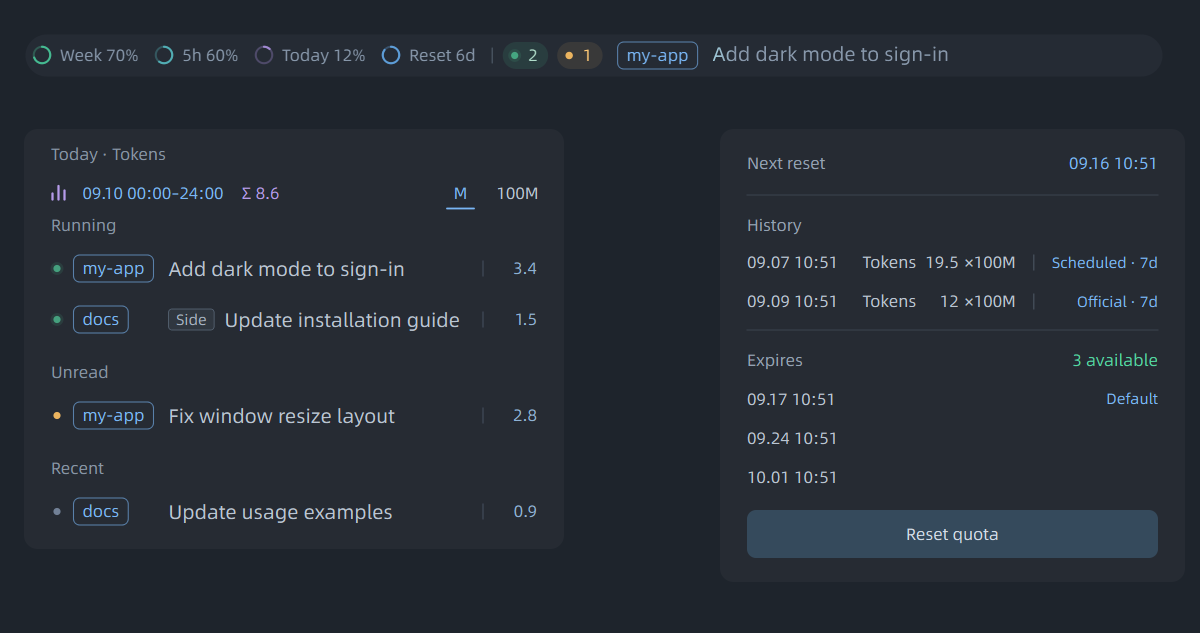
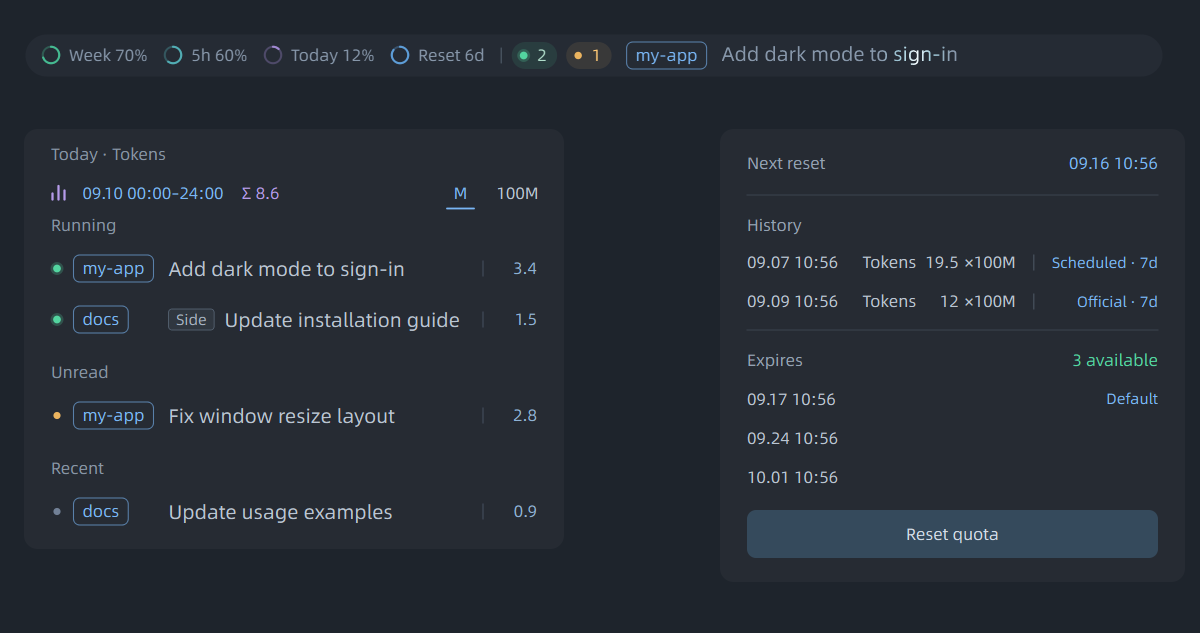
chore(release): 整理胶囊及窗口修复并发布 v0.3.3
增加胶囊左侧内边距，汇总手动深浅配色、背景透明度、窗口状态恢复、菜单与历史显示修正。验证：151项回归、正式覆盖安装与再次启动、设置及自启保留、安装资源哈希。

Changed region(s): [[0.0308, 0.06, 0.8017, 0.1201], [0.9558, 0.2401, 0.9867, 0.2701]]

diff --git a/codex_taskbar/app.py b/codex_taskbar/app.py
@@ -32,6 +32,7 @@ from .i18n import LANGUAGES, translate, project_label
 PANEL, MUTED, ACCENT, BLUE = "#262b33", "#bac5d2", "#53d5a0", "#79b6f5"
 TITLE_MUTED = "#8797aa"
 ROTATE_SECONDS = 8
+CONTENT_X = 18.
 FONT_FAMILY = None
 LILAC = "#b59bea"
 AMBER = "#ebb45f"
@@ -603,7 +604,7 @@ class StatusBar(QWidget):
         if not any(self.settings[key] for key in DISPLAY_DEFAULTS):
             self.hide();self.hide_popup(immediate=True);return
         metrics=self.displayed_metrics()
-        minimum=12+sum((25 if self.settings.get('rotate_quotas') else 29)+self.metric_text_width(kind,value) for kind,value,fraction in metrics)
+        minimum=CONTENT_X+sum((25 if self.settings.get('rotate_quotas') else 29)+self.metric_text_width(kind,value) for kind,value,fraction in metrics)
         if self.settings['show_tasks']:
             counts=category_counts(self.data)
             minimum+=(60 if self.data.get('tasks') else 0)+sum(30+QFontMetricsF(face(8)).horizontalAdvance(str(counts[k])) for k in ('running','unread','failed','stopped') if counts[k])
@@ -660,7 +661,7 @@ class StatusBar(QWidget):
                 p.drawRoundedRect(box,box.height()/2,box.height()/2)
             for mode,rect,target in self.hit_regions:p.fillRect(rect.toAlignedRect(),QColor(0,0,0,1))
             p.end()
-        x,y=12.,self.height()/2
+        x,y=CONTENT_X,self.height()/2
         def field(kind,value,fraction):
             nonlocal x
             left=x-7
@@ -704,7 +705,7 @@ class StatusBar(QWidget):
         if not self.settings['show_tasks']:finish();return
         counts=category_counts(data)
         if not self.task and not any(counts[k] for k in ('running','unread','failed','stopped')):finish();return
-        if x>12:separator()
+        if x>CONTENT_X:separator()
         badge_x=x-6
         for mode,color in [('running',palette['green']),('unread',palette['amber']),('failed',palette['failed']),('stopped',palette['stopped'])]:
             if counts[mode]:

diff --git a/tests/test_interactions.py b/tests/test_interactions.py
@@ -479,7 +479,7 @@ class InteractionTests(unittest.TestCase):
             self.bar.quota_kind=kind
             with patch('codex_taskbar.app.text',wraps=app.text) as draw,patch('codex_taskbar.app.icon',wraps=app.icon) as icons:self.bar.grab()
             metric_icon=next(c for c in icons.call_args_list if c.args[1]==kind)
-            self.assertEqual(metric_icon.args[2],12.)
+            self.assertEqual(metric_icon.args[2],app.CONTENT_X)
             if kind=='clock':
                 label=next(c for c in draw.call_args_list if c.args[3]=='Reset')
                 number=next(c for c in draw.call_args_list if c.args[3]=='5d 16h')

diff --git a/codex_taskbar/build_info.py b/codex_taskbar/build_info.py
@@ -1,4 +1,4 @@
-VERSION = "0.3.2"
+VERSION = "0.3.3"
 APP_NAME = "Codex Taskbar Companion"
 # Set to the public owner/repository before building a published installer.
 RELEASE_REPOSITORY = "dicksick22046/codex-taskbar-companion"

diff --git a/docs/specs/interaction.md b/docs/specs/interaction.md
@@ -76,7 +76,7 @@ Codex侧边聊天是临时会话，不进入普通任务列表和持久化rollou
 
 ## 界面语言与术语
 
-底栏使用固定宽度胶囊背景，沿用现有区域和圆环坐标，不自动伸缩或跟随系统主题。设置提供手动深色/浅色配色与背景透明度0%～100%，保存在capsule_theme和capsule_transparency，默认深色、0%透明（不透明）。文字、圆环及状态色使用对应配色，透明度只作用背景，不使用整个窗口的透明度。面板、菜单和设置窗口维持现有深色样式。胶囊空白不触发面板，外部圆角区域仍透明；所有关闭时不显示胶囊。
+底栏使用固定宽度胶囊背景，沿用现有区域，内容起点为18DIP，圆环在轮换时保持原位，不自动伸缩或跟随系统主题。设置提供手动深色/浅色配色与背景透明度0%～100%，保存在capsule_theme和capsule_transparency，默认深色、0%透明（不透明）。文字、圆环及状态色使用对应配色，透明度只作用背景，不使用整个窗口的透明度。面板、菜单和设置窗口维持现有深色样式。胶囊空白不触发面板，外部圆角区域仍透明；所有关闭时不显示胶囊。
 
 配色立即生效，滑块拖动实时预览、松开保存，键盘调整也保存；不新增背景采样、系统主题监听或采集线程。所有四种语言提供对应文案。原生可见恢复和菜单层级修复继续有效。
 

diff --git a/docs/i18n/README.es.md b/docs/i18n/README.es.md
@@ -37,6 +37,8 @@ En los ajustes puedes elegir inglés, chino simplificado, japonés o español, a
 
 ## Qué significan los datos
 
+En Ajustes puedes elegir manualmente el color oscuro o claro de la cápsula y la transparencia del fondo. Un 0% significa fondo opaco; el texto y los anillos no se atenúan.
+
 - Los porcentajes de cuota proceden de la cuenta; los tokens, de los registros de tareas de este equipo. Los tokens no permiten calcular un porcentaje exacto de cuota ni el coste de la suscripción.
 - El consumo diario parte de la primera lectura disponible del día y se conserva al reiniciar. No reconstruye el consumo anterior. Si la cuota se reinicia durante el día, suma los intervalos por separado.
 - La lista diaria incluye los turnos de hoy. Los paneles de estado muestran la duración del turno actual o más reciente, incluida la espera de herramientas.

diff --git a/CHANGELOG.md b/CHANGELOG.md
@@ -4,6 +4,10 @@
 
 ## Unreleased
 
+## 0.3.3
+
+- Increase left padding inside the capsule so the first ring is clear of its edge.
+
 - Add a fixed capsule background with manual dark/light colors and background transparency controls.
 - Recover native visibility and Qt surface state after an unexpected hide; keep context menus above the strip and taskbar.
 - Hide the taskbar divider when the left-side indicators rotate.
@@ -12,6 +16,7 @@
 - Left-align rotating values in a compact column after their labels, retaining the ring position.
 - Shorten the cycle-usage heading to “Cycle · Tokens” and update the translations.
 - Tighten the rotating slot to the current countdown format, retaining the ring position and stable width between rotations.
+
 ## 0.3.2
 
 - Align rotating values to the right edge so the divider has equal spacing on both sides.

diff --git a/README.md b/README.md
@@ -37,6 +37,8 @@ Settings include English, Simplified Chinese, Japanese, and Spanish UI selection
 
 ## About the numbers
 
+Capsule colors and background transparency are set manually in Settings. Choose Dark or Light; 0% transparency gives a solid background. Text and ring opacity are unaffected.
+
 - Quota percentages come from the account. Tokens come from task logs on this computer. Token totals cannot be converted into an exact quota percentage or subscription cost.
 - Daily quota usage starts at the day's first available reading. Restarting preserves it. Earlier usage is not reconstructed; a reset during the day is handled as a separate interval.
 - The daily task list includes today's turns. Status panels show the current or latest turn's duration, including time waiting for tools.

diff --git a/docs/i18n/CHANGELOG.zh-CN.md b/docs/i18n/CHANGELOG.zh-CN.md
@@ -4,6 +4,10 @@
 
 ## Unreleased
 
+## 0.3.3
+
+- 增加胶囊左侧内边距，避免圆环贴近边缘。
+
 - 底栏增加固定宽度胶囊，可在设置中手动选择深浅配色和背景透明度。
 - 修复原生窗口状态与Qt不同步导致底栏消失；右键菜单置于底栏及任务栏上方。
 - 左侧指标轮换时隐藏底栏分隔线。
@@ -12,6 +16,7 @@
 - 轮换数值改为靠近说明的左对齐列，保持圆环原位。
 - 周期用量标题精简为“Cycle · Tokens”，同步精简其他语言文案。
 - 按当前倒计时格式收紧轮换区，保持圆环原位和轮换过程中的宽度稳定。
+
 ## 0.3.2
 
 - 轮换时说明靠左、数值靠右，使分隔线两侧留白对称。

diff --git a/docs/i18n/README.zh-CN.md b/docs/i18n/README.zh-CN.md
@@ -37,6 +37,8 @@
 
 ## 数据怎么算
 
+胶囊配色和背景透明度可在设置中手动调整。深浅两套配色，0%透明度表示不透明背景；文字和圆环不会一起变淡。
+
 - 额度百分比来自账户，Token 来自本机任务日志。Token 总量不能准确换算为额度百分比或订阅费用。
 - 今日额度消耗从当天第一条可用记录开始计算，重启保留。之前的用量不补算；当天发生重置时分段累计。
 - 日列表统计今天的多轮任务用量；状态列表显示当前或最近一轮的耗时，包含工具等待时间。
